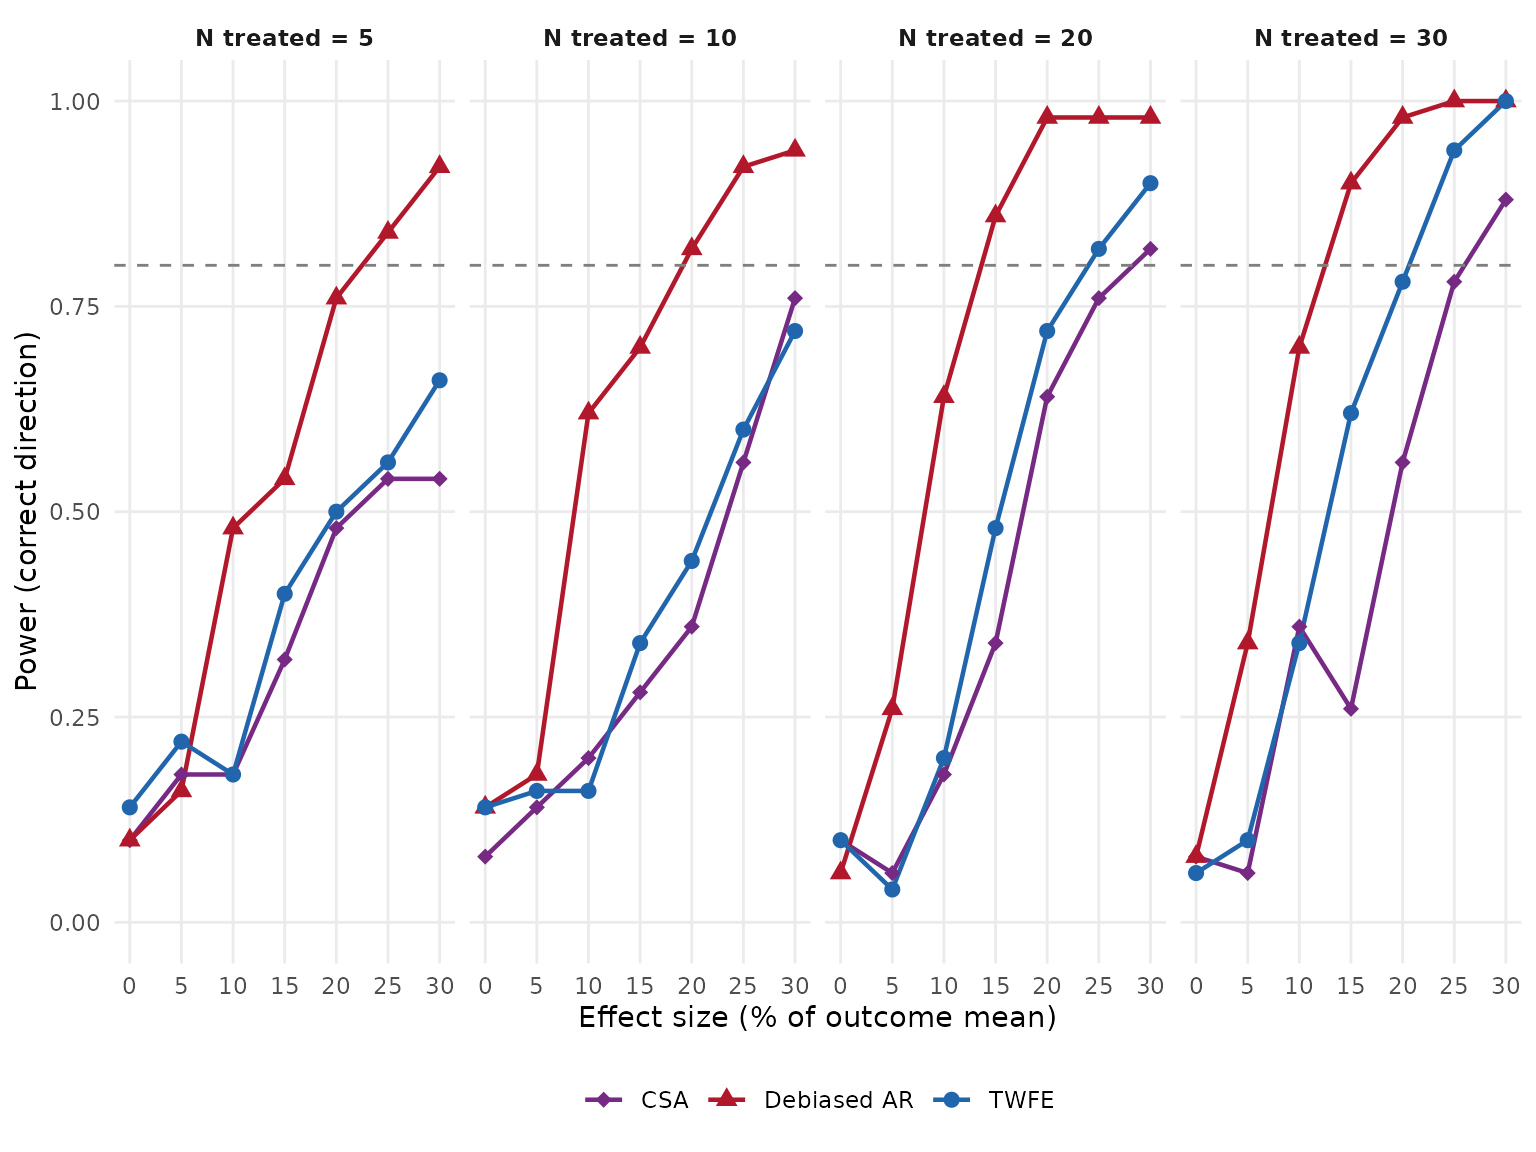
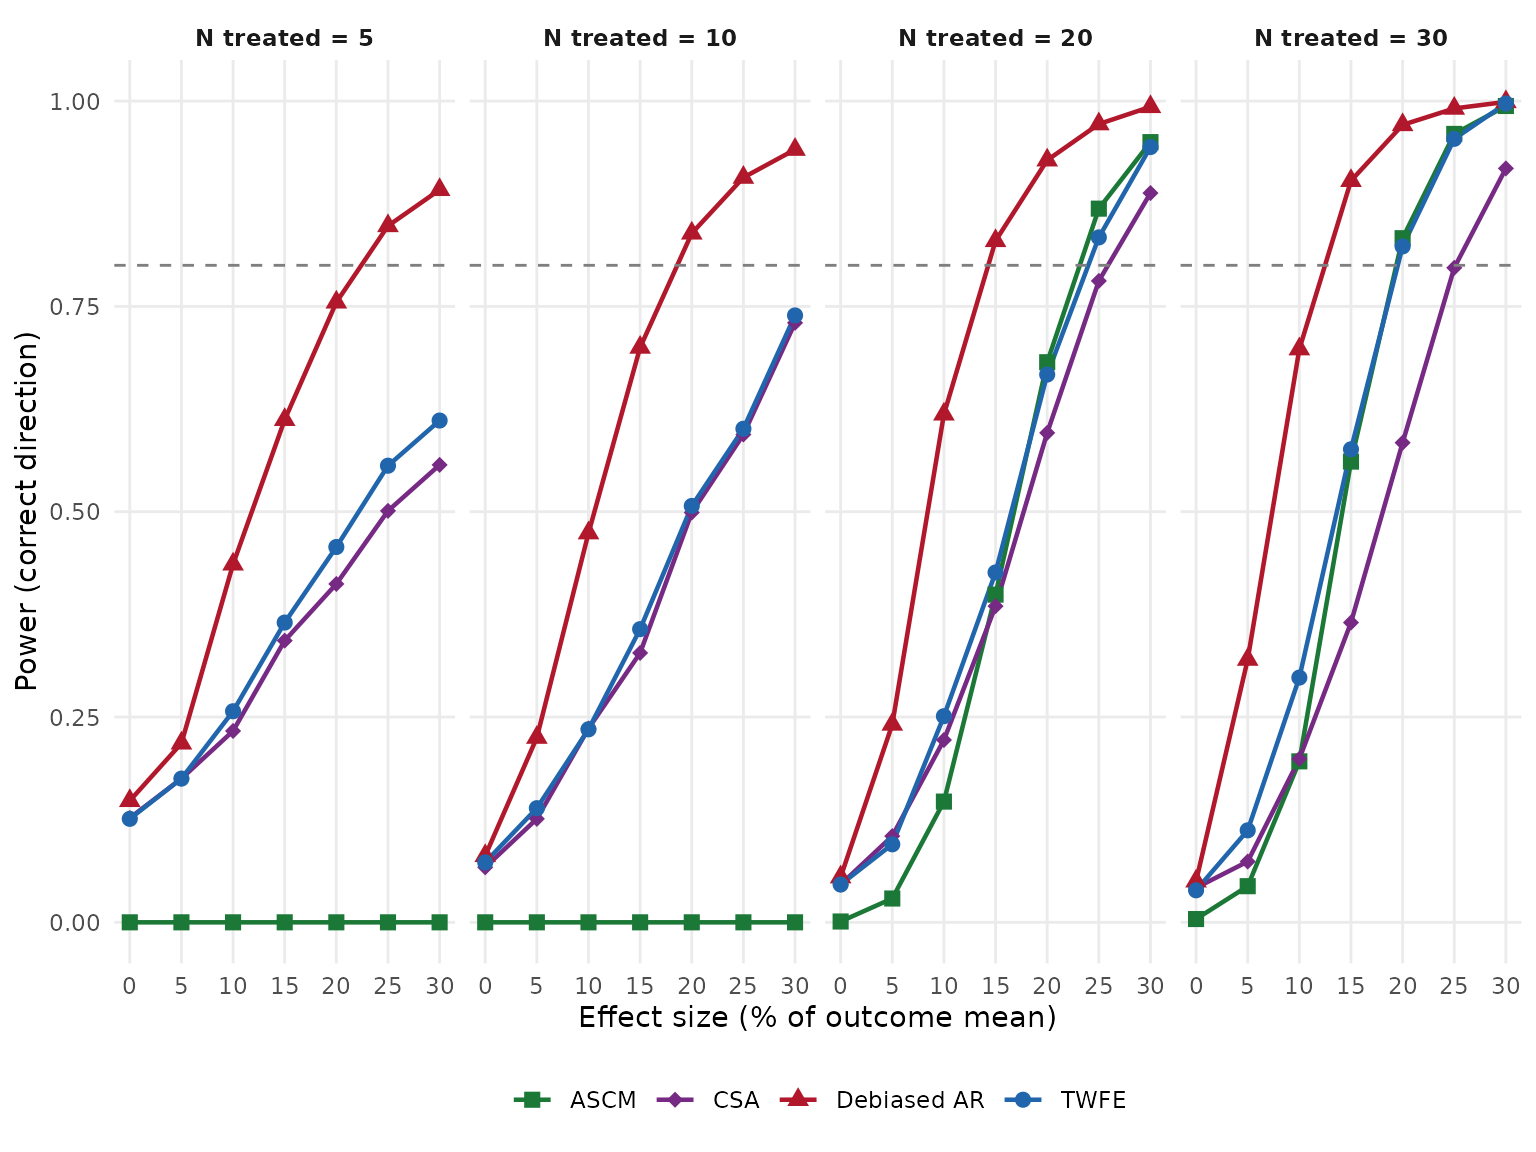
Deploying to gh-pages from @ RANDCorporation/optic@74952f3f97055b4d0aad4f48cc555dd60d4fc582 🚀

diff --git a/articles/power_analysis.html b/articles/power_analysis.html
@@ -418,25 +418,32 @@ approximately 0.05 for a well-calibrated test.</p>
 </tr></thead>
 <tbody>
 <tr class="odd">
-<td align="left">CSA</td>
-<td align="right">0.10</td>
-<td align="right">0.08</td>
-<td align="right">0.10</td>
-<td align="right">0.08</td>
+<td align="left">ASCM</td>
+<td align="right">0.000</td>
+<td align="right">0.000</td>
+<td align="right">0.001</td>
+<td align="right">0.004</td>
 </tr>
 <tr class="even">
-<td align="left">Debiased AR</td>
-<td align="right">0.10</td>
-<td align="right">0.14</td>
-<td align="right">0.06</td>
-<td align="right">0.08</td>
+<td align="left">CSA</td>
+<td align="right">0.127</td>
+<td align="right">0.067</td>
+<td align="right">0.046</td>
+<td align="right">0.042</td>
 </tr>
 <tr class="odd">
+<td align="left">Debiased AR</td>
+<td align="right">0.148</td>
+<td align="right">0.081</td>
+<td align="right">0.055</td>
+<td align="right">0.050</td>
+</tr>
+<tr class="even">
 <td align="left">TWFE</td>
-<td align="right">0.14</td>
-<td align="right">0.14</td>
-<td align="right">0.10</td>
-<td align="right">0.06</td>
+<td align="right">0.126</td>
+<td align="right">0.073</td>
+<td align="right">0.046</td>
+<td align="right">0.039</td>
 </tr>
 </tbody>
 </table>

diff --git a/articles/power_analysis.md b/articles/power_analysis.md
@@ -339,11 +339,12 @@ summary_df %>%
   knitr::kable(digits = 3, caption = "Type I error rate by model and N treated")
 ```
 
-| model_name  |  N=5 | N=10 | N=20 | N=30 |
-|:------------|-----:|-----:|-----:|-----:|
-| CSA         | 0.10 | 0.08 | 0.10 | 0.08 |
-| Debiased AR | 0.10 | 0.14 | 0.06 | 0.08 |
-| TWFE        | 0.14 | 0.14 | 0.10 | 0.06 |
+| model_name  |   N=5 |  N=10 |  N=20 |  N=30 |
+|:------------|------:|------:|------:|------:|
+| ASCM        | 0.000 | 0.000 | 0.001 | 0.004 |
+| CSA         | 0.127 | 0.067 | 0.046 | 0.042 |
+| Debiased AR | 0.148 | 0.081 | 0.055 | 0.050 |
+| TWFE        | 0.126 | 0.073 | 0.046 | 0.039 |
 
 Type I error rate by model and N treated {.table}
 